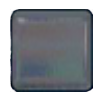
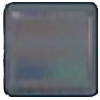
minor fixes, texture improvements and swap animations!

diff --git a/src/uk/ac/cam/cl/intelligentgamedesigner/userinterface/AnimationThread.java b/src/uk/ac/cam/cl/intelligentgamedesigner/userinterface/AnimationThread.java
@@ -1,7 +1,10 @@
 package uk.ac.cam.cl.intelligentgamedesigner.userinterface;
 
+import java.awt.Dimension;
+
 import javax.swing.SwingWorker;
 
+import uk.ac.cam.cl.intelligentgamedesigner.coregame.Cell;
 import uk.ac.cam.cl.intelligentgamedesigner.coregame.GameState;
 import uk.ac.cam.cl.intelligentgamedesigner.coregame.InvalidMoveException;
 import uk.ac.cam.cl.intelligentgamedesigner.coregame.Move;
@@ -15,10 +18,9 @@ public class AnimationThread extends SwingWorker{
 	public static final String FINISHED = "game over";
 	
 	//TODO: animations, make cell objects for drawing purposes?
-	private static final int SWAP_SPEED = 20;
-	private static final int FALL_SPEED = 10;
-	private static final double DISTANCE_PER_SLEEP = 0.2;//in fractions of a tilesize
-	//assert ((1.0/DISTANCE_PER_SLEEP - (int)(1.0/DISTANCE_PER_SLEEP))==0);
+	public static final int SWAP_SPEED = 15;
+	public static final int FALL_SPEED = 10;
+	public static final double DISTANCE_PER_SLEEP = 0.1;//in fractions of a tilesize
 	
 	private GameState theGame;
 	private Move move;
@@ -34,14 +36,19 @@ public class AnimationThread extends SwingWorker{
 
 	@Override
 	protected Object doInBackground() throws Exception {
-
 		try {
 			if(animated){
+				board.setAnimating(true);
+				Cell[][] old_game = theGame.getBoard().clone();
 				theGame.makeInitialMove(move);
+				animate(ProcessState.MAKING_SWAP,old_game,new Object[]{move});
+				old_game = theGame.getBoard().clone();
 				while(theGame.makeSmallMove()) {
-					animate(theGame.getCurrentProcessState());
-					update();	
+					animate(theGame.getCurrentProcessState(),old_game,null);
+					update();
+					old_game = theGame.getBoard().clone();	
 				}
+				board.setAnimating(false);
 			} else {
 				theGame.makeFullMove(move);
 				update();
@@ -57,9 +64,84 @@ public class AnimationThread extends SwingWorker{
 	}
 
 		
-	public void animate(ProcessState gameState) throws InterruptedException{
-		if(gameState != ProcessState.AWAITING_MOVE)board.doAnimation(gameState);
-		Thread.sleep(200);
+	public void animate(ProcessState gameState, Cell[][] old_game, Object[] inputs) throws InterruptedException{
+		try
+		{
+			switch(gameState){
+//			case MATCH_AND_REPLACE:// Stage where matches occur and the cells that matched are emptied.
+//				break;
+//			case SHUFFLE:// The board is shuffled if there are no moves to be made, until there are.
+//				break;
+//			case DETONATE_PENDING:// Detonate the special candies that were triggered in the first stage.
+//				break;
+//			case BRING_DOWN_CANDIES:// Bring down the candies to the fillable positions on the board.
+//				break;
+//			case PASSING_INGREDIENTS:// Pass the ingredients that can be passed through the ingredient sinks.
+//				break;
+//			case FILL_BOARD:// Fill the empty cells on the board that are not blocked by blocker candies.
+//		    	break;
+//			case AWAITING_MOVE:// The game state is awaiting a move.
+//				break;
+			case MAKING_SWAP:// two candies are swapped
+				Move move = (Move)inputs[0];
+				Dimension[][] candy_offsets = new Dimension[old_game.length][old_game[0].length];
+//				//determine 
+//				int x1,x2,y1,y2;
+//				if(move.p1.x<move.p2.x){
+//					x1 = move.p1.x;
+//					x2 = move.p2.x;
+//					y1 = move.p1.y;
+//					y2 = move.p2.y;
+//				} else {
+//					x1 = move.p1.x;
+//					x2 = move.p2.x;
+//				}
+				candy_offsets[move.p1.x][move.p1.y] = new Dimension(
+						board.tile_size * (move.p2.x - move.p1.x),board.tile_size * (move.p2.y - move.p1.y));
+				candy_offsets[move.p2.x][move.p2.y] = new Dimension(
+						board.tile_size * (move.p1.x - move.p2.x),board.tile_size * (move.p1.y - move.p2.y));
+				for(int n=0;n<(int)(1.0/DISTANCE_PER_SLEEP);n++){
+					board.setOffsets(candy_offsets);
+					board.repaint();
+					Thread.sleep(SWAP_SPEED);
+					decrement(candy_offsets,DISTANCE_PER_SLEEP);
+				}
+				board.clear_offsets();
+				board.setBoard(theGame.getBoard());
+				break;
+				default:
+					board.clear_offsets();
+					board.setBoard(theGame.getBoard());
+					Thread.sleep(100);
+					break;
+			}
+		} catch(ArrayIndexOutOfBoundsException e){
+			e.printStackTrace();
+		}
+	}
+	private void decrement(Dimension[][] offsets, double increment){
+		for(int x=0;x<offsets.length;x++){
+			for(int y=0;y<offsets[0].length;y++){
+				if(offsets[x][y] != null){
+					if(offsets[x][y].width<0){
+						offsets[x][y].width += increment*board.tile_size;
+						if(offsets[x][y].width>=0)offsets[x][y].width = 0;
+					}
+					if(offsets[x][y].width>0){
+						offsets[x][y].width -= increment*board.tile_size;
+						if(offsets[x][y].width<=0)offsets[x][y].width = 0;
+					}
+					if(offsets[x][y].height<0){
+						offsets[x][y].height += increment*board.tile_size;
+						if(offsets[x][y].height>=0)offsets[x][y].height = 0;
+					}
+					if(offsets[x][y].height>0){
+						offsets[x][y].height -= increment*board.tile_size;
+						if(offsets[x][y].height<=0)offsets[x][y].height = 0;
+					}
+				}
+			}
+		}
 	}
 
 	private void update() {

diff --git a/src/uk/ac/cam/cl/intelligentgamedesigner/userinterface/GameBoard.java b/src/uk/ac/cam/cl/intelligentgamedesigner/userinterface/GameBoard.java
@@ -1,24 +1,61 @@
 package uk.ac.cam.cl.intelligentgamedesigner.userinterface;
 
+import java.awt.Color;
+import java.awt.Dimension;
+import java.awt.Graphics;
+import java.awt.image.BufferedImage;
+
 import uk.ac.cam.cl.intelligentgamedesigner.coregame.Design;
 import uk.ac.cam.cl.intelligentgamedesigner.coregame.ProcessState;
 
 public class GameBoard extends DisplayBoard{
+	public Dimension[][] candy_offsets;
 
 	public GameBoard(Design design) {
 		super(design);
 		showing_unusables = false;
+		candy_offsets = new Dimension[width][height];
 	}
 	public GameBoard(int width, int height) {
 		super(width,height);
 		showing_unusables = false;
 	}
 	
-	private ProcessState animationState;
-	private boolean animating;
-	public void doAnimation(ProcessState gameState) throws InterruptedException{
-		animationState = gameState;
-		animating = true;
-		Thread.sleep(10);
+	protected boolean animating;
+	public void setAnimating(boolean animating){
+		this.animating = animating;
 	}
+	protected void clear_offsets(){
+		for(int x=0;x<width;x++){
+			for(int y=0;y<height;y++){
+				if(candy_offsets[x][y]!=null)candy_offsets[x][y].setSize(0, 0);
+			}
+		}
+	}
+	protected void setOffsets(Dimension[][] offsets){
+		candy_offsets = offsets;
+	}
+	
+	
+
+
+	//drawing the screen, with animations!
+	@Override
+	public void paint(Graphics g){
+		if(!using_textures)super.paint(g);
+		else{
+			for(int x=0;x<width;x++){
+				for(int y=0;y<height;y++){
+					int x_loc = x*tile_size;
+					int y_loc = y*tile_size;
+					if(candy_offsets != null && candy_offsets[x][y] != null){
+						x_loc += candy_offsets[x][y].width;
+						y_loc += candy_offsets[x][y].height;
+					}
+					draw_textured_cell(x,y,g,x_loc,y_loc);
+				}
+			}
+		}
+	}
+	
 }

diff --git a/src/uk/ac/cam/cl/intelligentgamedesigner/userinterface/DisplayBoard.java b/src/uk/ac/cam/cl/intelligentgamedesigner/userinterface/DisplayBoard.java
@@ -186,7 +186,7 @@ public class DisplayBoard extends JComponent {
 	}
 
 	//drawing the screen
-	private void draw_textured_cell(int x, int y, Graphics g){
+	protected void draw_textured_cell(int x, int y, Graphics g, int candy_x_loc, int candy_y_loc){
 		BufferedImage item = null;
 		
 		//before the candy
@@ -233,7 +233,7 @@ public class DisplayBoard extends JComponent {
 			g.drawImage(objective_piece[jl], x*tile_size, y*tile_size, (x+1)*tile_size, (y+1)*tile_size, 0, 0, image_size, image_size, null);
 		}
 		
-		if(item != null)g.drawImage(item, x*tile_size, y*tile_size, (x+1)*tile_size, (y+1)*tile_size, 0, 0, image_size, image_size, null);
+		if(item != null)g.drawImage(item, candy_x_loc, candy_y_loc, candy_x_loc+tile_size, candy_y_loc+tile_size, 0, 0, image_size, image_size, null);
 		
 		//after the candy
 		switch(board[x][y].getCellType()){
@@ -355,10 +355,9 @@ public class DisplayBoard extends JComponent {
 	}
 	
 	public void paint(Graphics g){
-		super.paint(g);
 		for(int x=0;x<width;x++){
 			for(int y=0;y<height;y++){
-				if(using_textures)draw_textured_cell(x,y,g);
+				if(using_textures)draw_textured_cell(x,y,g,x*tile_size,y*tile_size);
 				else draw_cell(x,y,g);
 			}
 		}

diff --git a/src/uk/ac/cam/cl/intelligentgamedesigner/userinterface/LevelCreatorScreen.java b/src/uk/ac/cam/cl/intelligentgamedesigner/userinterface/LevelCreatorScreen.java
@@ -127,7 +127,7 @@ public class LevelCreatorScreen extends DisplayScreen implements ChangeListener{
 	@Override
 	protected void makeItems() {
 		save_and_quit = new JButton("Save and Quit");
-		just_quit = new JButton("Quit without saving");
+		just_quit = new JButton("Quit");
 		analyse = new JButton("Analyse Level");
 		just_save = new JButton("Save Level");
 		reset_board = new JButton("Clear Board");
@@ -291,9 +291,10 @@ public class LevelCreatorScreen extends DisplayScreen implements ChangeListener{
 		just_save.setAlignmentX(CENTER_ALIGNMENT);
 		controls.add(just_save);
 		controls.add(getSpace());
-		analyse.setAlignmentX(CENTER_ALIGNMENT);
-		controls.add(analyse);
-		controls.add(getSpace());
+		//The analyse button is never used
+		//analyse.setAlignmentX(CENTER_ALIGNMENT);
+		//controls.add(analyse);
+		//controls.add(getSpace());
 		save_and_quit.setAlignmentX(CENTER_ALIGNMENT);
 		controls.add(save_and_quit);
 		controls.add(getSpace());

diff --git a/src/uk/ac/cam/cl/intelligentgamedesigner/userinterface/CustomBoard.java b/src/uk/ac/cam/cl/intelligentgamedesigner/userinterface/CustomBoard.java
@@ -94,6 +94,8 @@ public class CustomBoard extends DisplayBoard implements MouseListener, MouseMot
 						board[x][y].setCellType(replace_type);
 					}else{
 						int jelly_level = board[x][y].getJellyLevel();//keep the jelly level
+						//clear the jelly if clearing the tile
+						if(replace_type == CellType.EMPTY || replace_type == CellType.UNUSABLE)jelly_level = 0;
 						board[x][y] = new Cell(replace_type);	
 						board[x][y].setJellyLevel(jelly_level);	
 					}	

diff --git a/src/uk/ac/cam/cl/intelligentgamedesigner/userinterface/UnitTestBoard.java b/src/uk/ac/cam/cl/intelligentgamedesigner/userinterface/UnitTestBoard.java
@@ -115,6 +115,8 @@ public class UnitTestBoard extends CustomBoard {
 								board[x][y].setCellType(CellType.LIQUORICE);
 							}else{
 								int jelly_level = board[x][y].getJellyLevel();//keep the jelly level
+								//clear the jelly if clearing the tile
+								if(watch_type == CellType.EMPTY || watch_type == CellType.UNUSABLE)jelly_level = 0;
 								board[x][y] = new Cell(watch_type);	
 								board[x][y].setJellyLevel(jelly_level);	
 							}			

diff --git a/src/uk/ac/cam/cl/intelligentgamedesigner/userinterface/DesignDisplayScreen.java b/src/uk/ac/cam/cl/intelligentgamedesigner/userinterface/DesignDisplayScreen.java
@@ -74,7 +74,7 @@ public class DesignDisplayScreen extends DisplayScreen{
 			break;
 		case INGREDIENTS:
 			game_mode.setText("Game Mode: Ingredients");
-			target.setText(objective_value==1?"Gather all "+objective_value+" ingredients!":"Gather 1 ingredient!");
+			target.setText(objective_value==1?"Gather 1 ingredient!":"Gather all "+objective_value+" ingredients!");
 			break;
 		}
 		number_of_moves = design.getNumberOfMovesAvailable();

diff --git a/src/uk/ac/cam/cl/intelligentgamedesigner/userinterface/HumanGameBoard.java b/src/uk/ac/cam/cl/intelligentgamedesigner/userinterface/HumanGameBoard.java
@@ -68,7 +68,7 @@ public class HumanGameBoard extends GameBoard implements MouseListener, MouseMot
 		
 		//draw the cursor	
 		g.setColor(Color.WHITE);
-		if(selecting){
+		if(selecting && !animating){
 			boolean draw_from = 
 					move_from.x<width && move_from.y<height &&
 					board[move_from.x][move_from.y].getCellType()!=CellType.UNUSABLE;

diff --git a/src/uk/ac/cam/cl/intelligentgamedesigner/coregame/ProcessState.java b/src/uk/ac/cam/cl/intelligentgamedesigner/coregame/ProcessState.java
@@ -19,5 +19,8 @@ public enum ProcessState {
     // Fill the empty cells on the board that are not blocked by blocker candies.
     FILL_BOARD,
     // The game state is awaiting a move.
-    AWAITING_MOVE
+    AWAITING_MOVE,
+    
+    // two candies are swapped
+    MAKING_SWAP
 }
